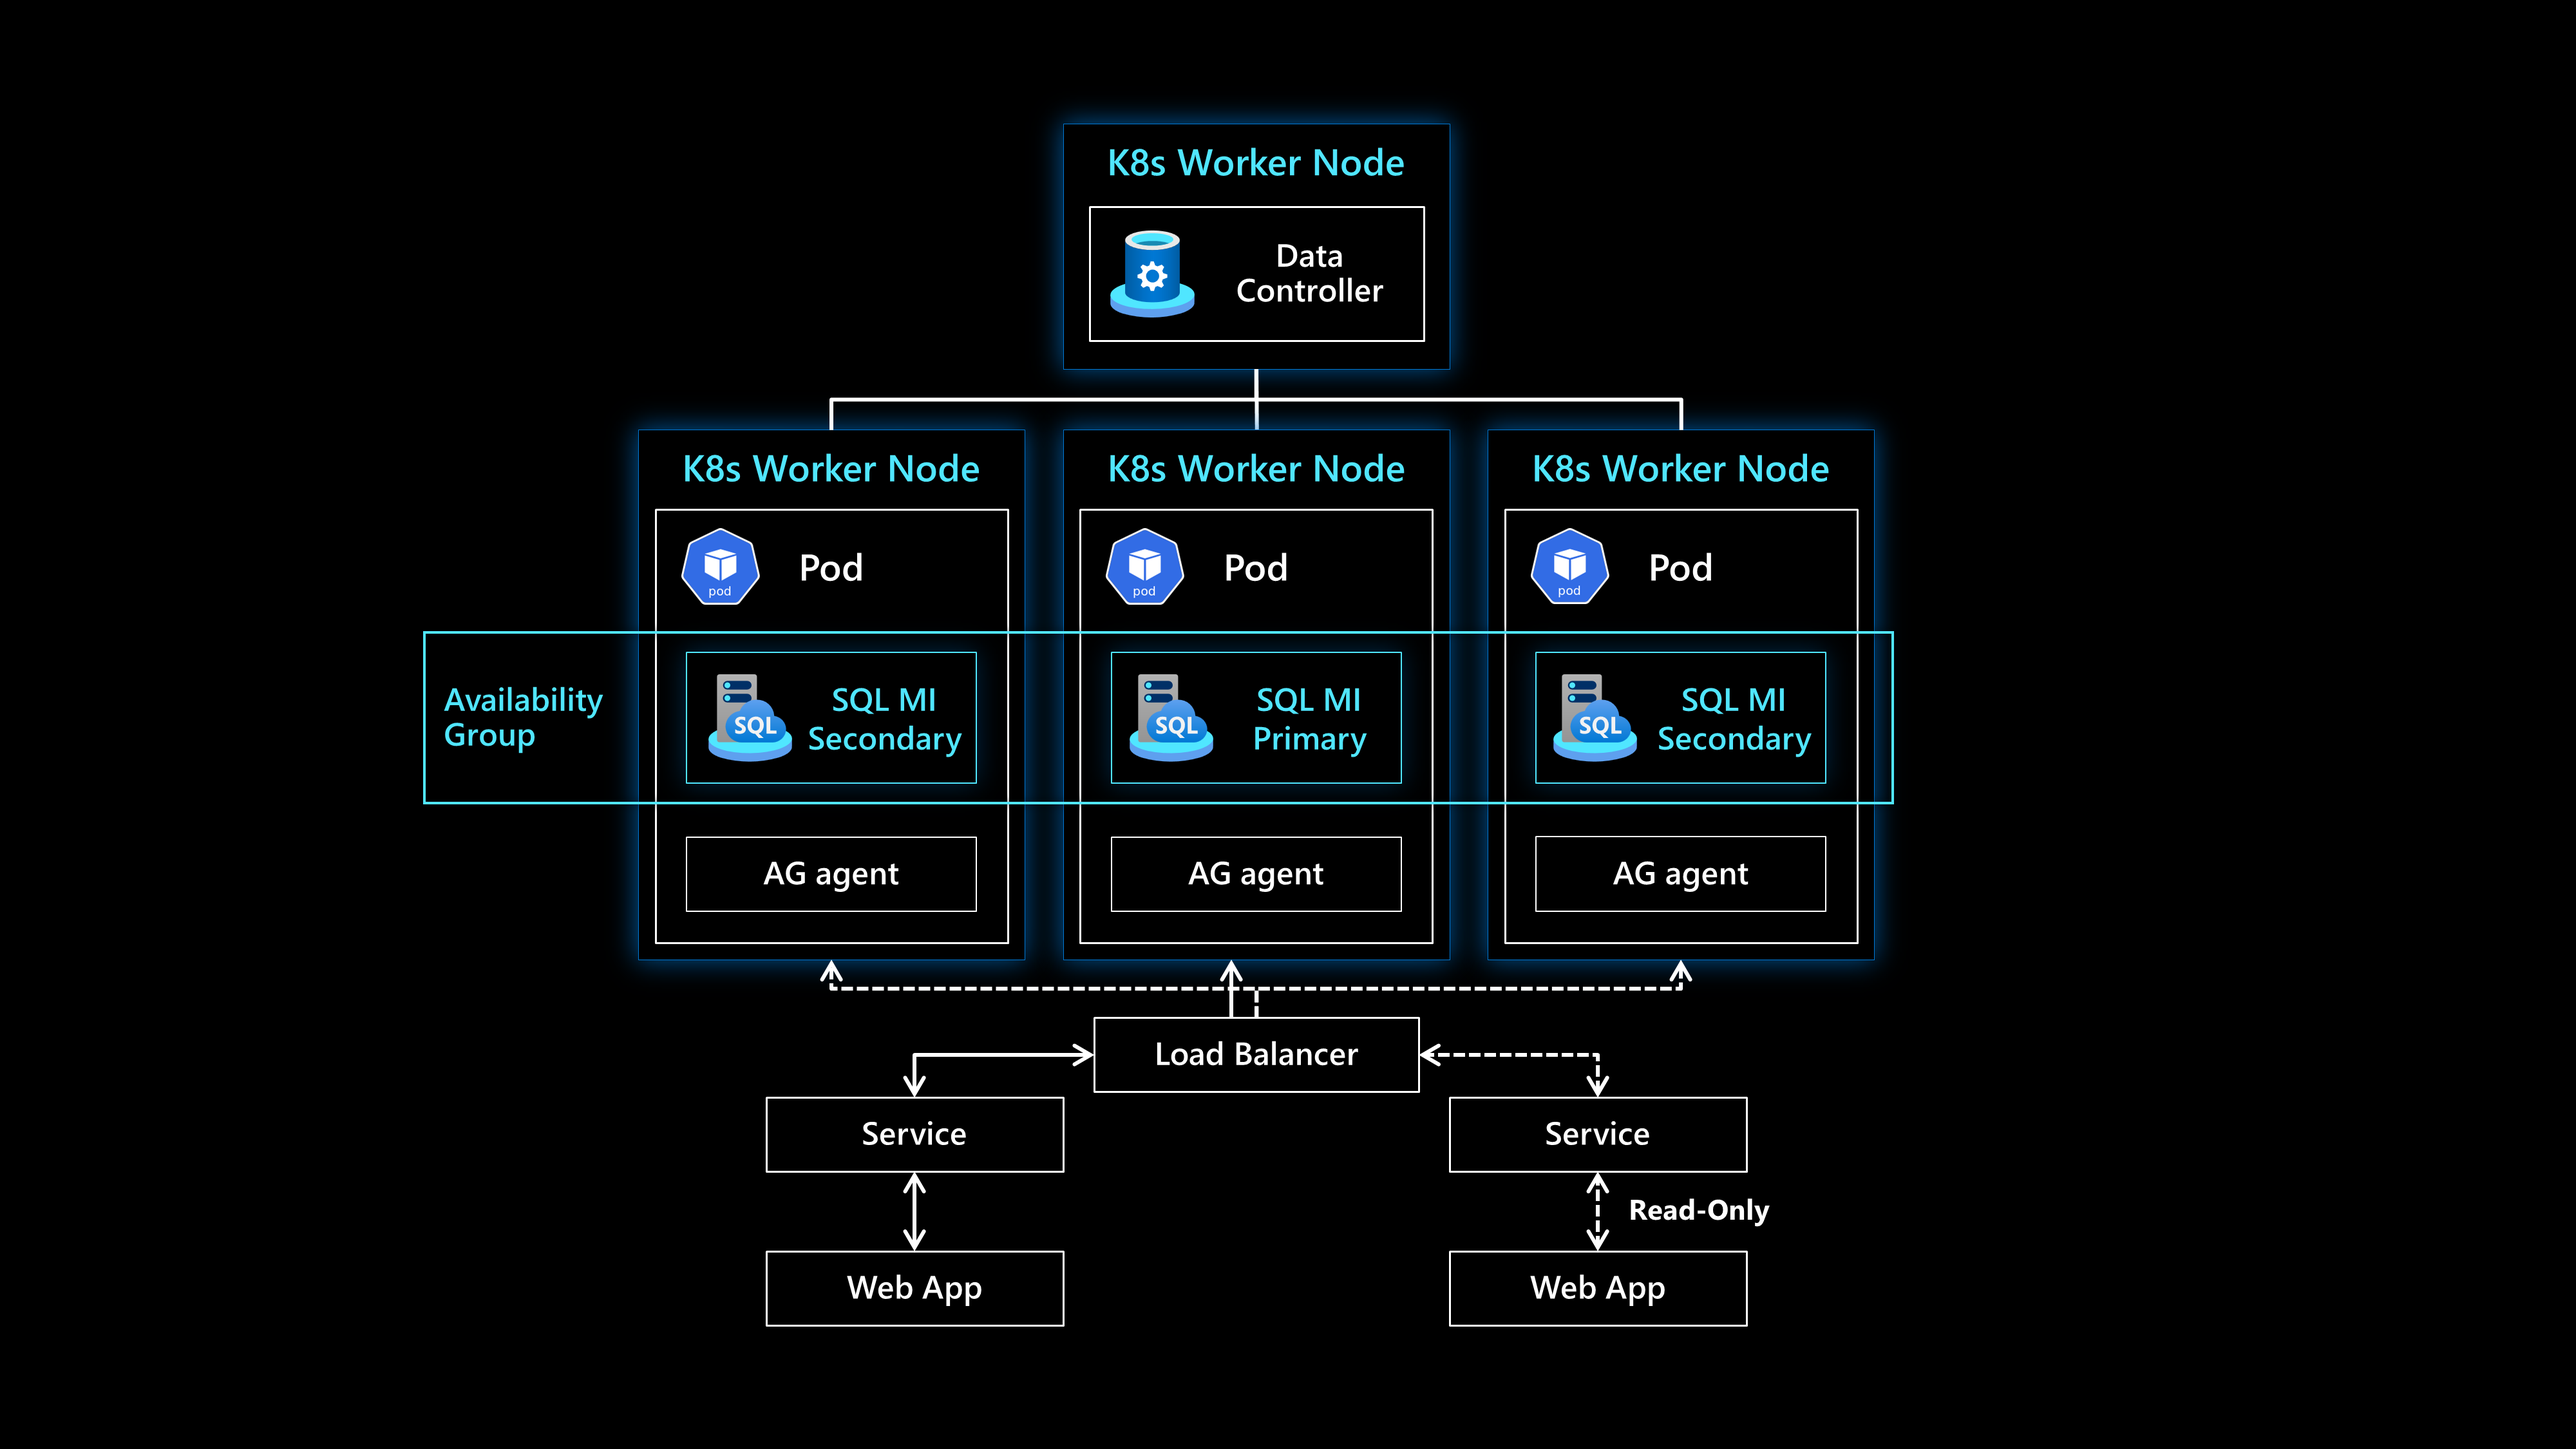
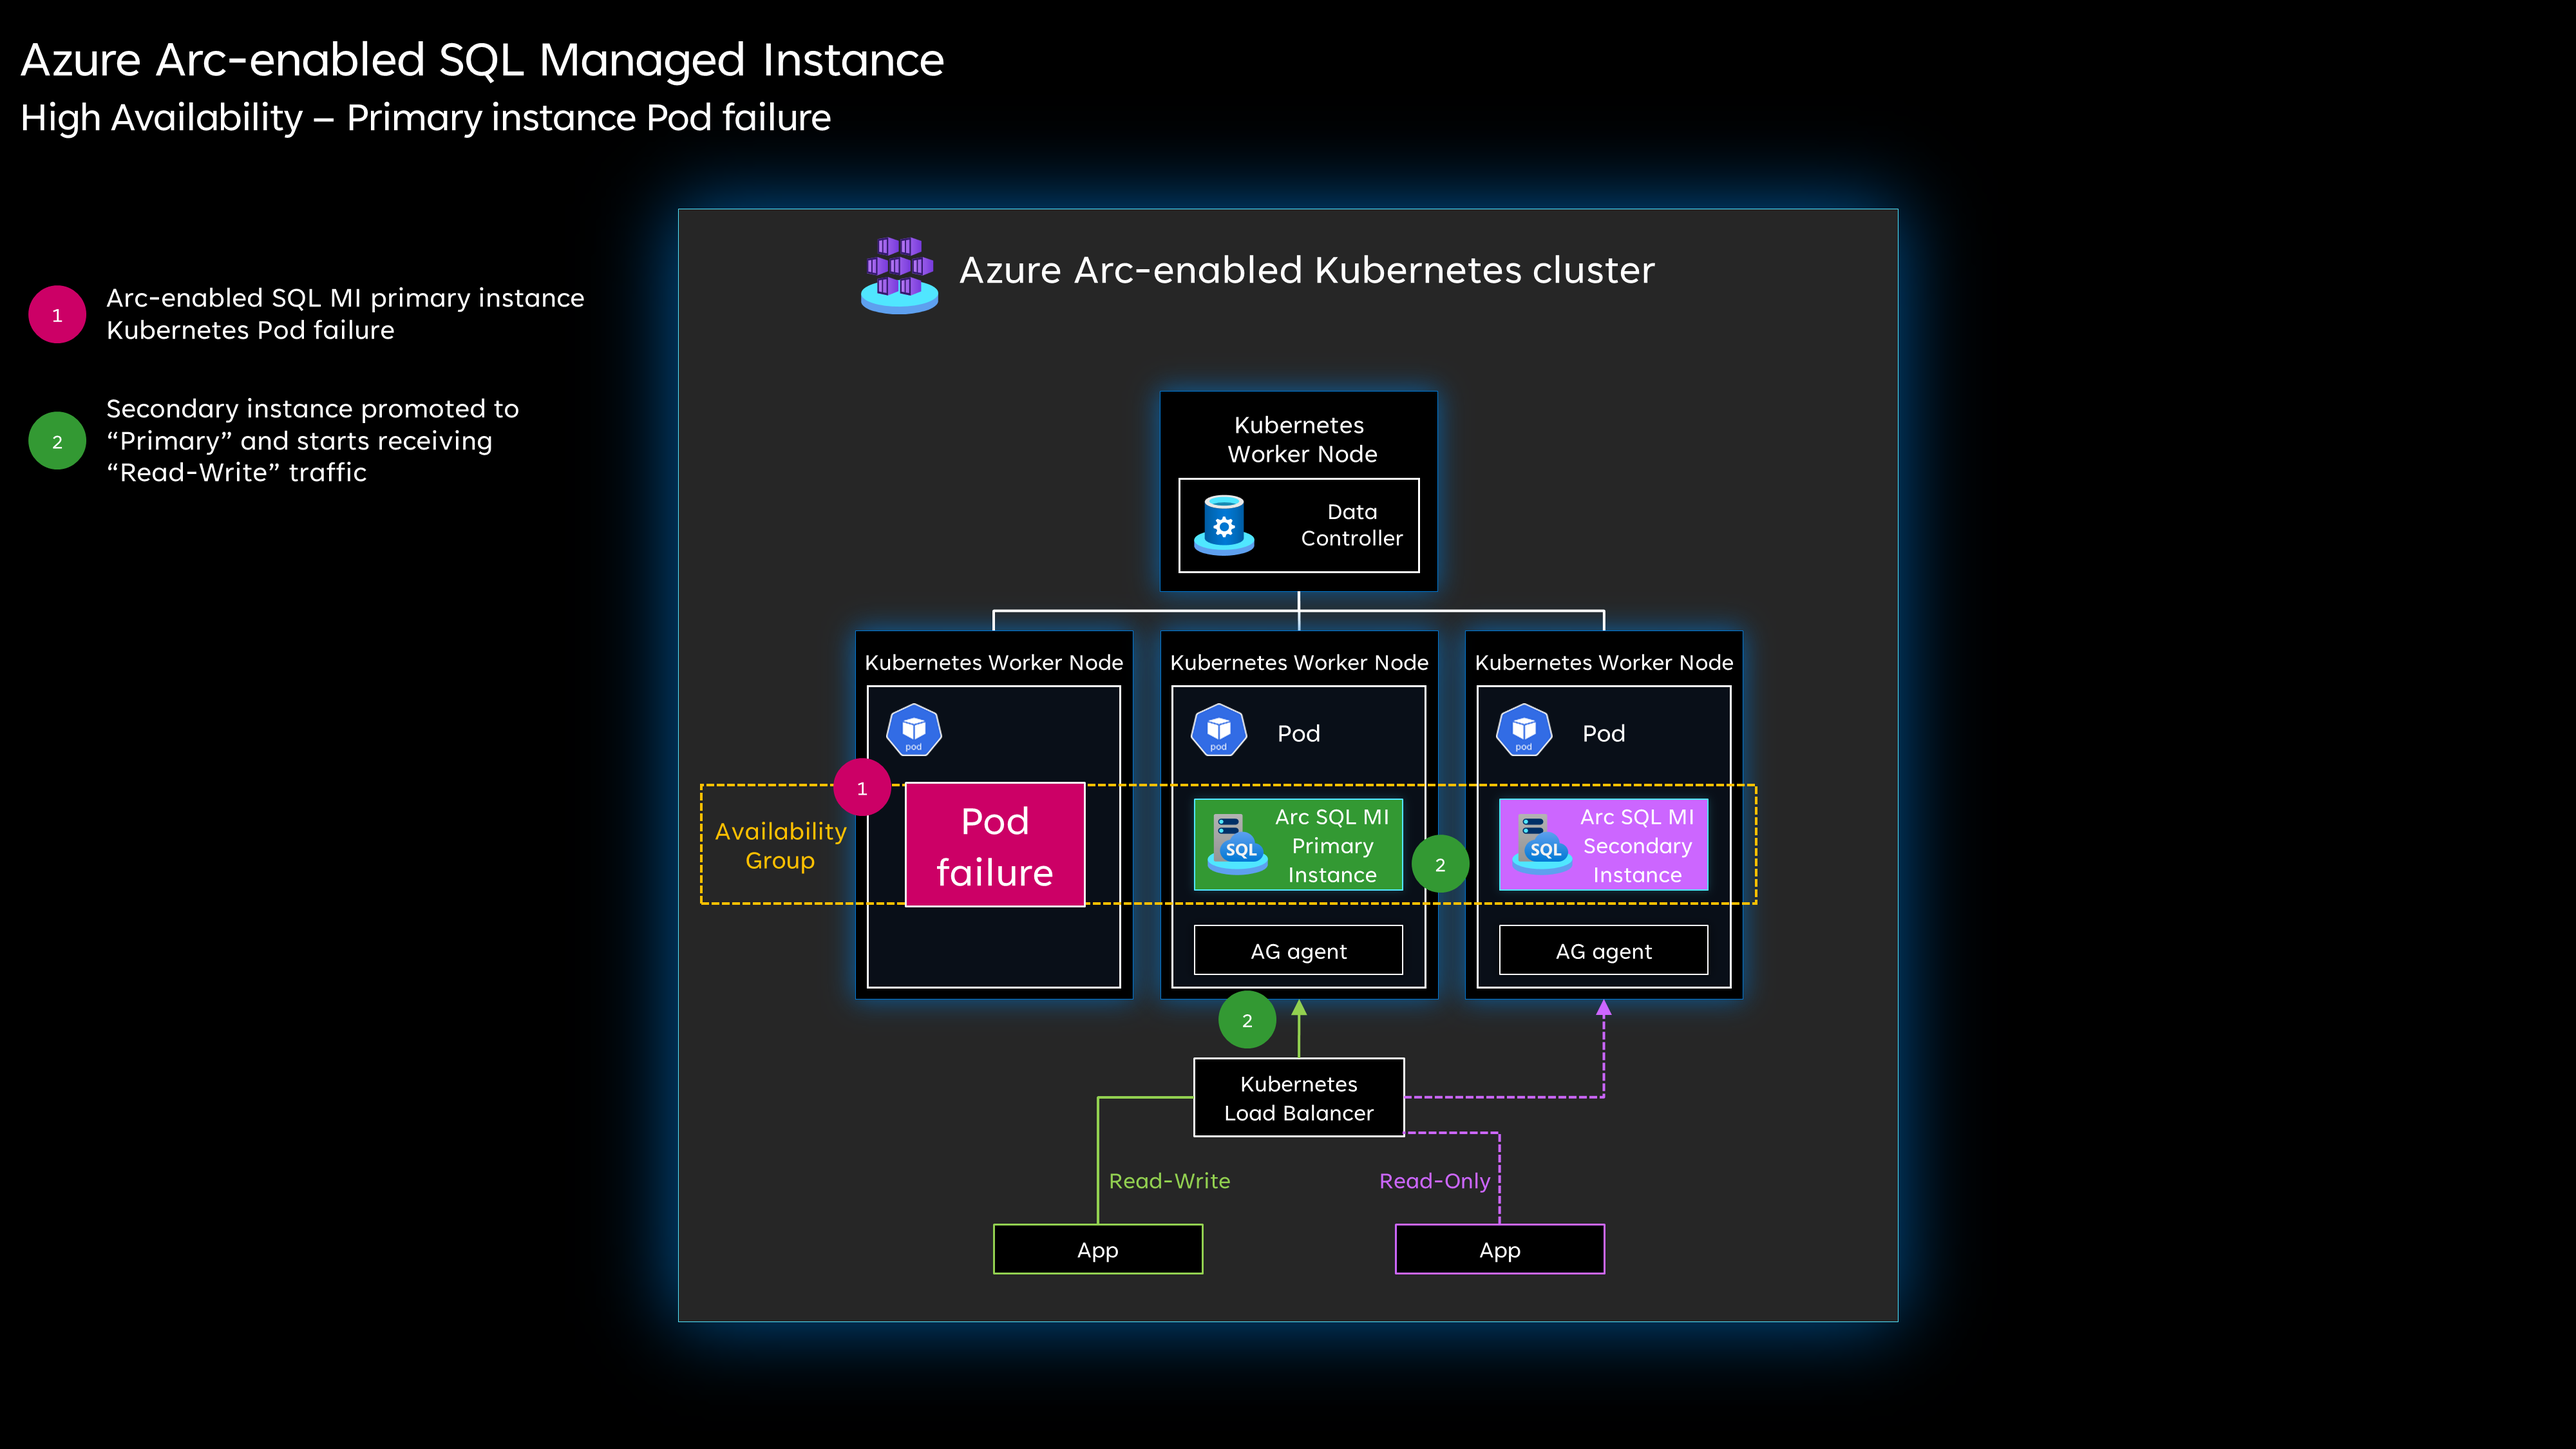
added new diagrams

diff --git a/docs/scenarios/hybrid/arc-enabled-datasvc-sqlmi/eslz-arc-datasvc-sqlmi-bcdr.md b/docs/scenarios/hybrid/arc-enabled-datasvc-sqlmi/eslz-arc-datasvc-sqlmi-bcdr.md
@@ -20,11 +20,13 @@ This article provides key design considerations and recommendations for configur
 
 The following architecture diagrams show the high availability capabilities of the Arc-enabled SQL MI "Business Critical" service tier which allows for near-zero downtime failover. In the event of primary instance failure, the load balancer stops sending traffic to it and starts redirecting towards the secondary instances, promoting one of them to primary. Once the failed instance comes back online, it will be added as secondary.
 
-  ![A diagram showing the primary instance of the Azure Arc-enabled SQL Managed Instance going down](./media/arc-enabled-sqlmi-ha-1.png)
+  ![A diagram showing the operational state of a highly available business critical instance](./media/arc-enabled-sqlmi-ha-1.png)
 
-  ![A diagram showing the connections being redirected from the failed primary instance](./media/arc-enabled-sqlmi-ha-2.png)
+  ![A diagram showing a failure in the primary replica and promoting a secondary replica to primary](./media/arc-enabled-sqlmi-ha-2.png)
 
-  ![A diagram showing the secondary instance being promoted to primary](./media/arc-enabled-sqlmi-ha-3.png)
+  ![A diagram showing the primary replica failure](./media/arc-enabled-sqlmi-ha-3.png)
+
+  ![A diagram showing the operational state restored](./media/arc-enabled-sqlmi-ha-4.png)
 
 The following architecture diagrams show how Arc-enabled SQL MI can be deployed on two separate Kubernetes clusters in two different sites for disaster recovery and when a disaster recovery failover is initiated.
 
